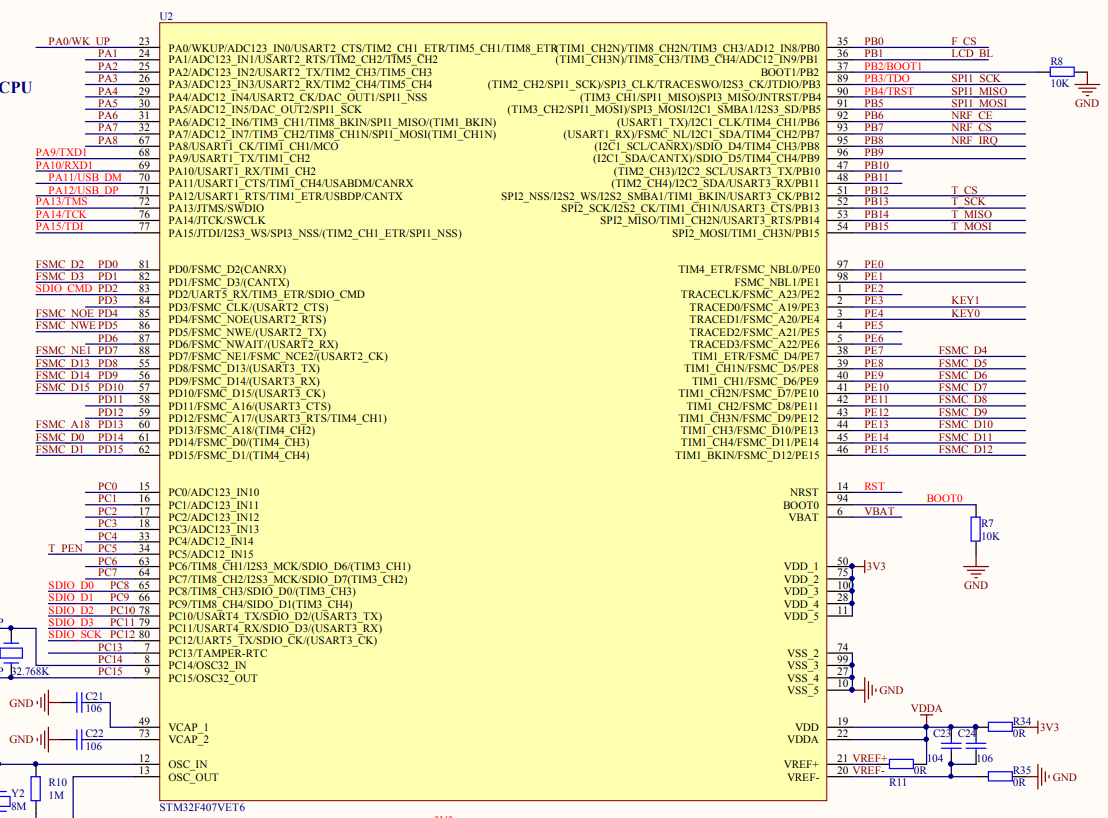
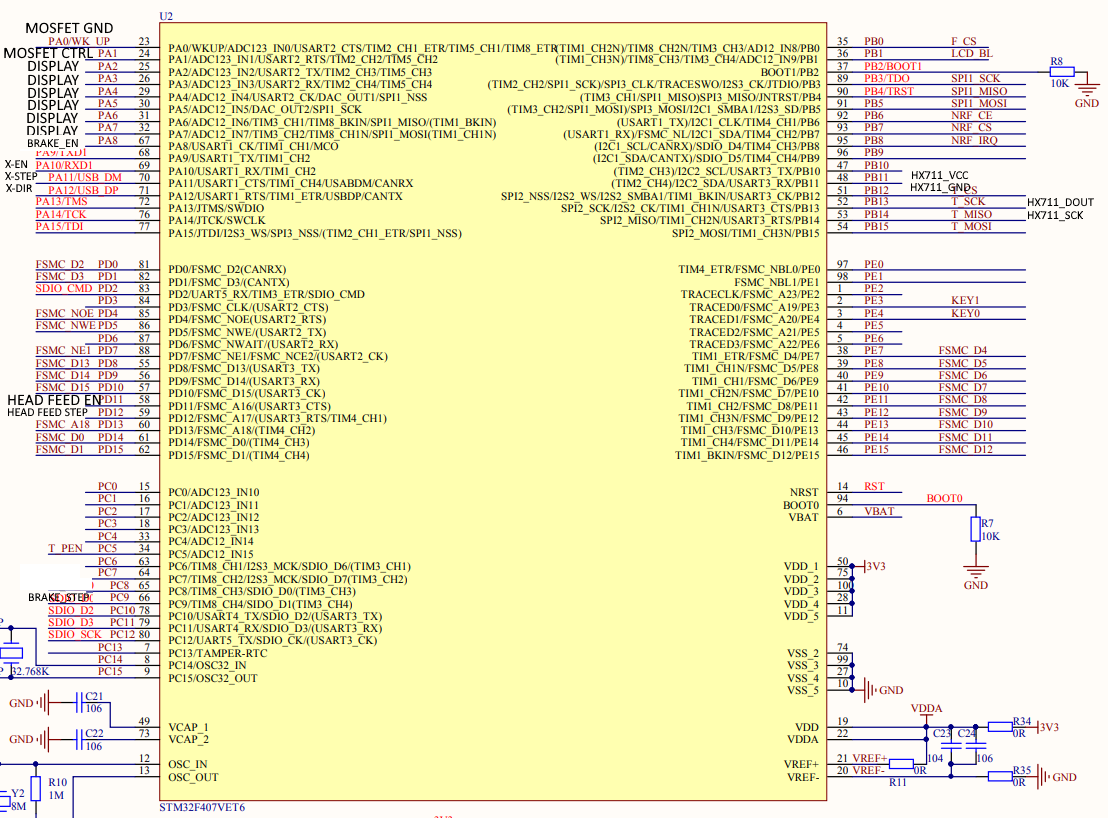
Porting done

diff --git a/firmware/EDM/src/main.cpp b/firmware/EDM/src/main.cpp
@@ -13,18 +13,6 @@
 #define KBRD_START_STOP_BUTTON      (PE6)
 
 
-
-
-
-#define SPARK_SHORT_CIRCUIT       (14)
-// #define SPART_SHORT_CIRCUIT       (ADC_CHANNEL_6) // A1
-
-#define X_EN                      (29)
-#define X_DIR                     (27)
-#define X_STEP                    (9)
-#define X_PWM_CH                  (4)
-
-
 // #define DEBUG_PIN_1                 (PD10)
 // #define DEBUG_PIN_2                 (PD9)
 // #define DEBUG_PIN_3                 (PD8)
@@ -71,14 +59,64 @@ void keyboard_process() {
 //     }
 // }
 
-static TIM_HandleTypeDef g_x_htim = {0};
+TIM_HandleTypeDef g_x_htim = {0};
+TIM_HandleTypeDef g_htim8 = {0};
 
-#define X_STEP_PIN        (GPIO_PIN_8)
-#define X_STEP_PORT       (GPIOA)
-#define X_DIR_PIN         (GPIO_PIN_9)
-#define X_DIR_PORT        (GPIOA)
+
 #define X_EN_PIN          (GPIO_PIN_10)
 #define X_EN_PORT         (GPIOA)
+#define X_STEP_PIN        (GPIO_PIN_11)
+#define X_STEP_PORT       (GPIOA)
+#define X_DIR_PIN         (GPIO_PIN_12)
+#define X_DIR_PORT        (GPIOA)
+
+
+#define FEEDBACK_PIN          (GPIO_PIN_6)
+#define FEEDBACK_PORT         (GPIOC)
+
+void init_feedback() {
+    GPIO_InitTypeDef x_step_gpio = {0};
+    x_step_gpio.Pin       = FEEDBACK_PIN;
+    x_step_gpio.Mode      = GPIO_MODE_AF_PP;
+    x_step_gpio.Pull      = GPIO_NOPULL;
+    x_step_gpio.Speed     = GPIO_SPEED_FREQ_VERY_HIGH;
+    x_step_gpio.Alternate = GPIO_AF3_TIM8;
+    HAL_GPIO_Init(FEEDBACK_PORT, &x_step_gpio);
+
+    // Setup TIM8
+    g_htim8.Instance               = TIM8;
+    g_htim8.Init.Prescaler         = 167; // Prescaler = 168 - 1 = 83: 1 tick = 1 us
+    g_htim8.Init.CounterMode       = TIM_COUNTERMODE_UP;
+    g_htim8.Init.Period            = 0xFFFF;
+    g_htim8.Init.ClockDivision     = TIM_CLOCKDIVISION_DIV1;
+    g_htim8.Init.RepetitionCounter = 0;
+    g_htim8.Init.AutoReloadPreload = TIM_AUTORELOAD_PRELOAD_DISABLE;
+    HAL_TIM_IC_Init(&g_htim8);
+
+    // Setup slave mode
+    TIM_SlaveConfigTypeDef slave = {0};
+    slave.SlaveMode        = TIM_SLAVEMODE_RESET;         // Reset CNT to 0 by trigger
+    slave.InputTrigger     = TIM_TS_TI1FP1;               // Connect trigger to CH1 (TI1)
+    slave.TriggerPolarity  = TIM_TRIGGERPOLARITY_FALLING; // Trigger polarity
+    slave.TriggerFilter    = 0;
+    HAL_TIM_SlaveConfigSynchro(&g_htim8, &slave);
+
+    // Setup input CH2 (RISING)
+    TIM_IC_InitTypeDef in = {0};
+    in.ICPolarity  = TIM_ICPOLARITY_FALLING;
+    in.ICSelection = TIM_ICSELECTION_DIRECTTI;
+    in.ICPrescaler = TIM_ICPSC_DIV1;
+    in.ICFilter    = 4; 
+    HAL_TIM_IC_ConfigChannel(&g_htim8, &in, TIM_CHANNEL_1);
+
+    // Setup input CH1 (FALLING)
+    in.ICPolarity  = TIM_ICPOLARITY_RISING;
+    in.ICSelection = TIM_ICSELECTION_INDIRECTTI; // Indirect link CH1 to CH2 pin
+    HAL_TIM_IC_ConfigChannel(&g_htim8, &in, TIM_CHANNEL_2);
+
+    HAL_TIM_IC_Start(&g_htim8, TIM_CHANNEL_1);
+    HAL_TIM_IC_Start(&g_htim8, TIM_CHANNEL_2);
+}
 
 void setup() {
     __HAL_RCC_SYSCFG_CLK_ENABLE();
@@ -86,6 +124,7 @@ void setup() {
     __HAL_RCC_TIM2_CLK_ENABLE();
     __HAL_RCC_TIM3_CLK_ENABLE();
     __HAL_RCC_TIM4_CLK_ENABLE();
+    __HAL_RCC_TIM8_CLK_ENABLE();
     __HAL_RCC_GPIOA_CLK_ENABLE();
     __HAL_RCC_GPIOB_CLK_ENABLE();
     __HAL_RCC_GPIOC_CLK_ENABLE();
@@ -114,7 +153,7 @@ void setup() {
     //
     // Setup X axis
 
-    // STEP: PA8 PWM
+    // STEP: PA11 PWM
     GPIO_InitTypeDef x_step_gpio = {0};
     x_step_gpio.Pin       = X_STEP_PIN;
     x_step_gpio.Mode      = GPIO_MODE_AF_PP;
@@ -136,7 +175,7 @@ void setup() {
     TIM_OC_InitTypeDef x_pwm = {0};
     x_pwm.OCMode = TIM_OCMODE_PWM1; // HIGH while counter < CCR
     x_pwm.Pulse  = 5000;            // CCR
-    HAL_TIM_PWM_ConfigChannel(&g_x_htim, &x_pwm, TIM_CHANNEL_1);
+    HAL_TIM_PWM_ConfigChannel(&g_x_htim, &x_pwm, TIM_CHANNEL_4);
 
     __HAL_TIM_MOE_ENABLE(&g_x_htim);
 
@@ -148,7 +187,7 @@ void setup() {
     HAL_GPIO_Init(X_EN_PORT, &x_en_gpio);
     HAL_GPIO_WritePin(X_EN_PORT, X_EN_PIN, GPIO_PIN_SET);
 
-    // DIR: PA9
+    // DIR: PA12
     GPIO_InitTypeDef x_dir_gpio = {0};
     x_dir_gpio.Pin   = X_DIR_PIN;
     x_dir_gpio.Mode  = GPIO_MODE_OUTPUT_PP;
@@ -157,20 +196,25 @@ void setup() {
     HAL_GPIO_WritePin(X_DIR_PORT, X_DIR_PIN, GPIO_PIN_SET);
 
 
+    init_feedback();
+
+
     // // Feedback
     // pinMode(SPARK_SHORT_CIRCUIT, INPUT_PULLUP);
     // attachInterrupt(SPARK_SHORT_CIRCUIT, spark_feedback_irq, CHANGE);
 }
 
 void start_axis_x() {
-    HAL_TIM_PWM_Start(&g_x_htim, TIM_CHANNEL_1);
+    HAL_TIM_PWM_Start(&g_x_htim, TIM_CHANNEL_4);
     HAL_GPIO_WritePin(X_EN_PORT, X_EN_PIN, GPIO_PIN_RESET);
 }
 
 void stop_axis_x() {
-    HAL_TIM_PWM_Stop(&g_x_htim, TIM_CHANNEL_1);
+    HAL_TIM_PWM_Stop(&g_x_htim, TIM_CHANNEL_4);
     HAL_GPIO_WritePin(X_EN_PORT, X_EN_PIN, GPIO_PIN_SET);
 }
+
+
 
 // void PWM_Handler(void) {
 //     uint32_t status = PWM->PWM_ISR1; 
@@ -194,18 +238,23 @@ void loop() {
         s_last_update_params_time_ms = millis();
     }
 
+
     //
     // Short circuit control
-    // static uint32_t s_no_spark_counter = 0;
-    // if (spark_is_enabled() && g_spark_time_us < 5) {
-    //     ++s_no_spark_counter;
-    //     if (s_no_spark_counter > 100) {
-    //         digitalWrite(X_DIR, LOW);
-    //     }
-    // } else {
-    //     s_no_spark_counter = 0;
-    //     digitalWrite(X_DIR, HIGH);
-    // }
+    static uint32_t s_reverse_dir_start_time_us = 0;
+    if (spark_is_enabled()) {
+        uint32_t current_cnt = __HAL_TIM_GET_COUNTER(&g_htim8);
+        int32_t period_us = HAL_TIM_ReadCapturedValue(&g_htim8, TIM_CHANNEL_2);
+        int32_t high_us   = HAL_TIM_ReadCapturedValue(&g_htim8, TIM_CHANNEL_1);
+        if (current_cnt > 10000) {
+            HAL_GPIO_WritePin(X_DIR_PORT, X_DIR_PIN, GPIO_PIN_RESET);
+            s_reverse_dir_start_time_us = micros();
+        } else {
+            if (micros() - s_reverse_dir_start_time_us > 100 * 1000) {
+                HAL_GPIO_WritePin(X_DIR_PORT, X_DIR_PIN, GPIO_PIN_SET);
+            }
+        }
+    }
     
     // 
     // Tension control

diff --git a/firmware/EDM/src/tension.cpp b/firmware/EDM/src/tension.cpp
@@ -6,9 +6,9 @@
 #define HEAD_FEEDER_STEP_PIN        (GPIO_PIN_12)
 #define HEAD_FEEDER_STEP_PORT       (GPIOD)
 
-#define HEAD_BRAKE_EN_PIN           (GPIO_PIN_7)
-#define HEAD_BRAKE_EN_PORT          (GPIOC)
-#define HEAD_BRAKE_STEP_PIN         (GPIO_PIN_8)
+#define HEAD_BRAKE_EN_PIN           (GPIO_PIN_8)
+#define HEAD_BRAKE_EN_PORT          (GPIOA)
+#define HEAD_BRAKE_STEP_PIN         (GPIO_PIN_9)
 #define HEAD_BRAKE_STEP_PORT        (GPIOC)
 
 #define HEAD_HX711_VCC_PIN          (GPIO_PIN_11)
@@ -78,7 +78,7 @@ void tension_init() {
     //
     // BRAKE
 
-    // Setup head brake: PC7 EN
+    // Setup head brake: PA8 EN
     GPIO_InitTypeDef brake_en_gpio = {0};
     brake_en_gpio.Pin       = HEAD_BRAKE_EN_PIN;
     brake_en_gpio.Mode      = GPIO_MODE_OUTPUT_PP;
@@ -87,12 +87,12 @@ void tension_init() {
     HAL_GPIO_Init(HEAD_BRAKE_EN_PORT, &brake_en_gpio);
     HAL_GPIO_WritePin(HEAD_BRAKE_EN_PORT, HEAD_BRAKE_EN_PIN, GPIO_PIN_SET);
 
-    // Setup head brake: PC8 STEP PWM
+    // Setup head brake: PC9 STEP PWM
     GPIO_InitTypeDef brake_step_gpio = {0};
     brake_step_gpio.Pin       = HEAD_BRAKE_STEP_PIN;
     brake_step_gpio.Mode      = GPIO_MODE_AF_PP;
     brake_step_gpio.Pull      = GPIO_NOPULL;
-    brake_step_gpio.Speed     = GPIO_SPEED_FREQ_VERY_HIGH;
+    brake_step_gpio.Speed     = GPIO_SPEED_FREQ_HIGH;
     brake_step_gpio.Alternate = GPIO_AF2_TIM3;
     HAL_GPIO_Init(HEAD_BRAKE_STEP_PORT, &brake_step_gpio);
 
@@ -111,7 +111,7 @@ void tension_init() {
     brake_pwm.Pulse      = 0;  // CCR
     brake_pwm.OCPolarity = TIM_OCPOLARITY_HIGH;
     brake_pwm.OCFastMode = TIM_OCFAST_DISABLE;
-    HAL_TIM_PWM_ConfigChannel(&g_head_brake_htim, &brake_pwm, TIM_CHANNEL_3);
+    HAL_TIM_PWM_ConfigChannel(&g_head_brake_htim, &brake_pwm, TIM_CHANNEL_4);
 
     //
     // Setup head tension sensor
@@ -165,7 +165,7 @@ void tension_start() {
     HAL_TIM_PWM_Start(&g_head_feeder_htim, TIM_CHANNEL_1);
 
     HAL_GPIO_WritePin(HEAD_BRAKE_EN_PORT, HEAD_BRAKE_EN_PIN, GPIO_PIN_RESET); // Enable brake driver
-    HAL_TIM_PWM_Start(&g_head_brake_htim, TIM_CHANNEL_3);
+    HAL_TIM_PWM_Start(&g_head_brake_htim, TIM_CHANNEL_4);
 
     g_is_enabled = true;
 }
@@ -179,7 +179,7 @@ void tension_stop() {
     HAL_TIM_PWM_Stop(&g_head_feeder_htim, TIM_CHANNEL_1);
 
     HAL_GPIO_WritePin(HEAD_BRAKE_EN_PORT, HEAD_BRAKE_EN_PIN, GPIO_PIN_SET); // Disable brake driver
-    HAL_TIM_PWM_Stop(&g_head_brake_htim, TIM_CHANNEL_3);
+    HAL_TIM_PWM_Stop(&g_head_brake_htim, TIM_CHANNEL_4);
 
     g_is_enabled = false;
 }
@@ -231,5 +231,5 @@ static void update_head_speed() {
 
     // Update brake freq
     __HAL_TIM_SET_AUTORELOAD(&g_head_brake_htim, g_brake_period_us);
-    __HAL_TIM_SET_COMPARE(&g_head_brake_htim, TIM_CHANNEL_3, g_brake_period_us / 2);
+    __HAL_TIM_SET_COMPARE(&g_head_brake_htim, TIM_CHANNEL_4, g_brake_period_us / 2);
 }

diff --git a/firmware/EDM/src/display.cpp b/firmware/EDM/src/display.cpp
@@ -11,7 +11,7 @@
 TFT_22_ILI9225 tft(TFT_RST, TFT_RS, TFT_CS, TFT_LED, 255);
 
 extern uint32_t g_spark_time_us;
-
+extern TIM_HandleTypeDef g_htim8;
 
 void display_init() {
     SPI.setMOSI(PA7);
@@ -111,14 +111,17 @@ void display_update() {
     }
     y += 15;
 
-    // Current
     if (s_call_counter == 4) {
-        // static int32_t s_last_current = -1;
-        // if (s_last_current != spark_current) {
-        //     tft.fillRectangle(106, y, 150, y + 8, COLOR_BLACK);
-        //     tft.drawText(106, y, String(spark_current), COLOR_YELLOW);
-        //     s_last_current = spark_current;
-        // }
+        tft.fillRectangle(5, y, 150, y + 8, COLOR_BLACK);
+        uint32_t current_cnt = __HAL_TIM_GET_COUNTER(&g_htim8);
+        int32_t period_ticks = HAL_TIM_ReadCapturedValue(&g_htim8, TIM_CHANNEL_2);
+        int32_t high_ticks = HAL_TIM_ReadCapturedValue(&g_htim8, TIM_CHANNEL_1);
+        if (current_cnt > 10000) {
+            period_ticks = 0;
+            high_ticks = 0;
+        }
+        tft.drawText(5, y, String(period_ticks), COLOR_YELLOW);
+        tft.drawText(106, y, String(high_ticks), COLOR_YELLOW);
         return;
     }
     y += 15;
